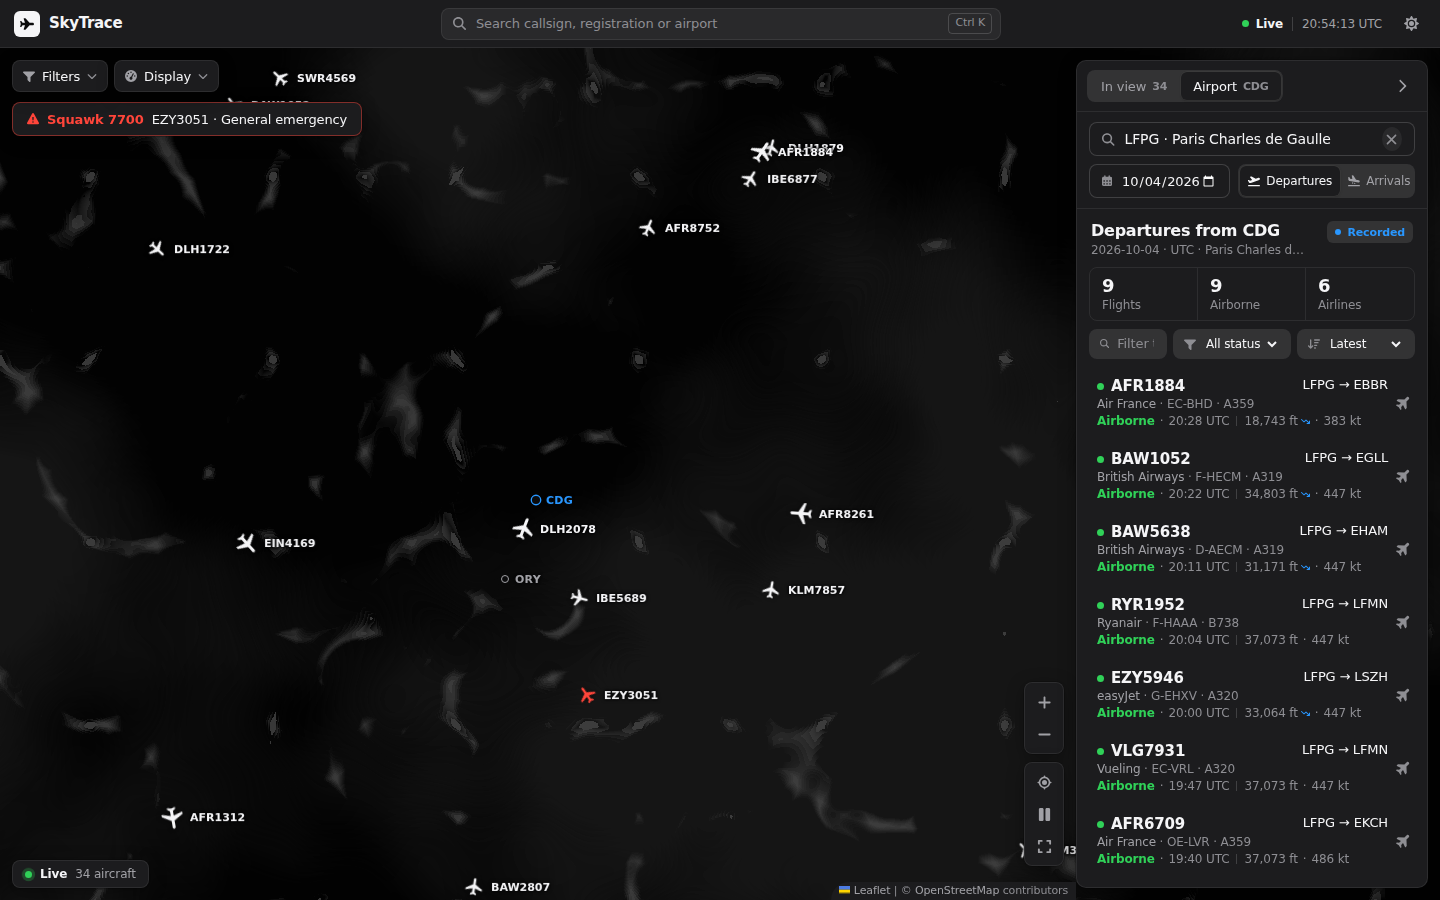
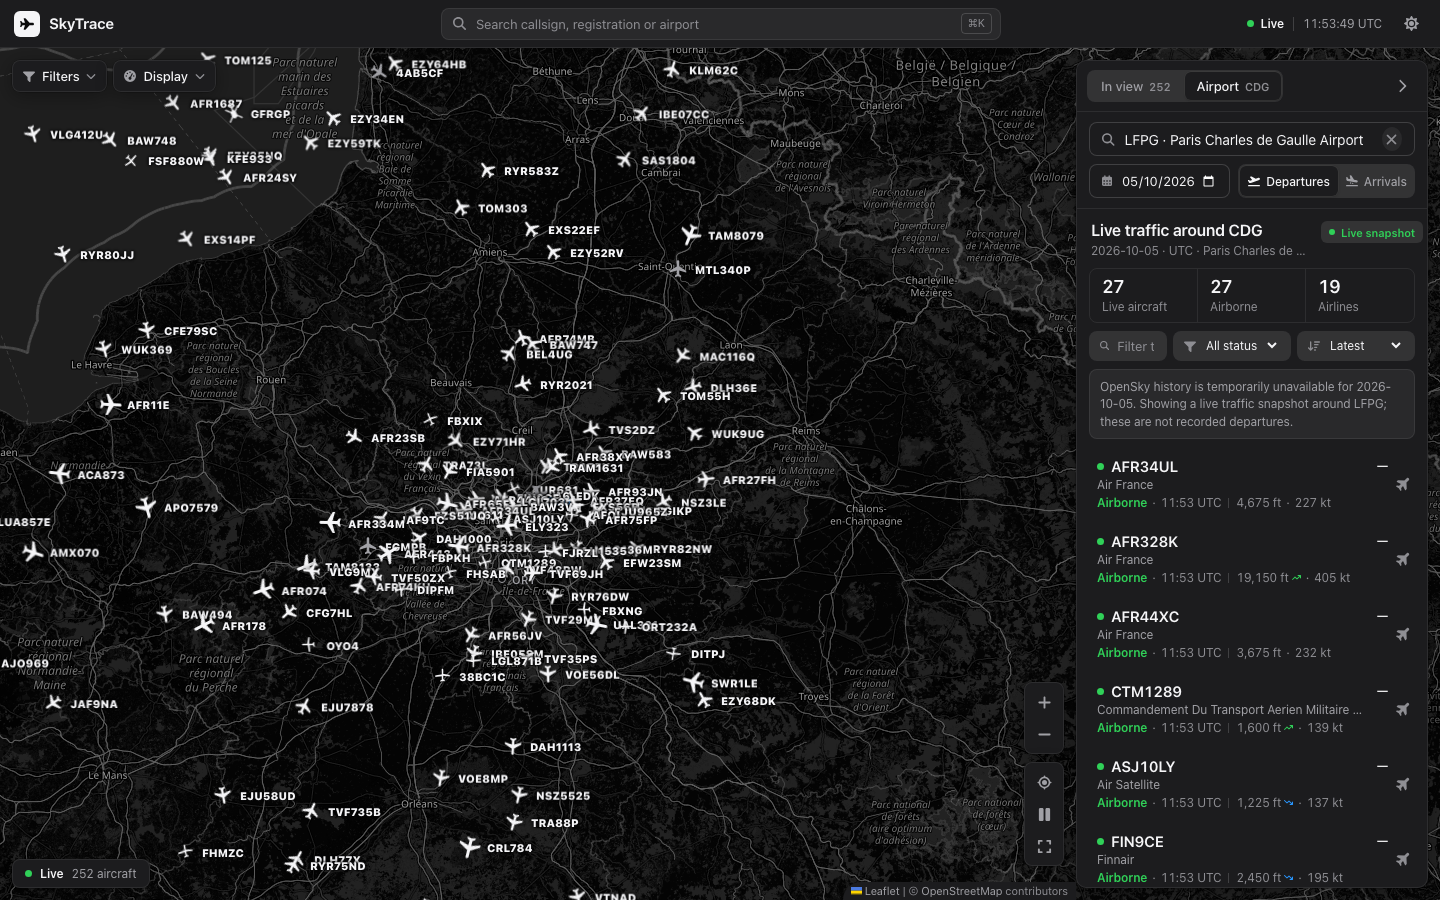
Polish flight map interactions and refresh real screenshots

diff --git a/src/components/FlightMap.tsx b/src/components/FlightMap.tsx
@@ -253,15 +253,19 @@ const AircraftMarker = memo(function AircraftMarker({ aircraft, active, onSelect
     click: selectAircraft,
   }), [selectAircraft]);
 
-  // Glide between feed refreshes: the marker element eases to each projected
-  // position over the one-second tick (see .aircraft-marker-wrap in the CSS).
+  // Only dead-reckoning ticks glide. Leaflet's own camera animations must
+  // position markers immediately or they visibly lag behind their map point.
   useEffect(() => subscribeToTick((now) => {
     const current = aircraftRef.current;
     const marker = markerRef.current;
     if (!marker || current.on_ground) return;
     const next = projectPosition(current, now);
     const shown = marker.getLatLng();
-    if (next && (next[0] !== shown.lat || next[1] !== shown.lng)) marker.setLatLng(next);
+    if (next && (next[0] !== shown.lat || next[1] !== shown.lng)) {
+      const element = marker.getElement();
+      if (!element?.closest(".map-camera-moving")) element?.classList.add("aircraft-gliding");
+      marker.setLatLng(next);
+    }
   }), []);
 
   useLayoutEffect(() => {
@@ -448,7 +452,9 @@ function revealPoint(map: L.Map, point: [number, number], animate: boolean) {
   const pixel = map.latLngToContainerPoint(point);
   const safe = { left: insets.left + 56, top: insets.top + 56, right: size.x - insets.right - 56, bottom: size.y - insets.bottom - 56 };
   const inside = pixel.x >= safe.left && pixel.x <= safe.right && pixel.y >= safe.top && pixel.y <= safe.bottom;
-  const zoom = Math.max(map.getZoom(), 7);
+  // Preserve the visitor's zoom level on selection. A forced zoom made an
+  // ordinary click feel like a second, unrelated camera action.
+  const zoom = map.getZoom();
   if (inside && zoom === map.getZoom()) return;
   const target = placementCenter(map, point, zoom, insets);
   map.stop();
@@ -471,7 +477,7 @@ interface MapControllerProps {
 
 function MapController({ airport, flight, track, fitRequest, locateRequest, onLocationFound, onLocationError }: MapControllerProps) {
   const map = useMap();
-  const selection = useRef<{ id: string; fitted: boolean } | null>(null);
+  const selection = useRef<{ id: string; fitted: boolean; revealed: boolean } | null>(null);
   const centeredAirport = useRef<string | null>(null);
   const lastFitRequest = useRef(fitRequest);
 
@@ -484,10 +490,11 @@ function MapController({ airport, flight, track, fitRequest, locateRequest, onLo
       selection.current = null;
       return;
     }
-    if (selection.current?.id !== selectedId) selection.current = { id: selectedId, fitted: false };
-    if (selectedLatitude == null || selectedLongitude == null) return;
+    if (selection.current?.id !== selectedId) selection.current = { id: selectedId, fitted: false, revealed: false };
+    if (selection.current.revealed || selectedLatitude == null || selectedLongitude == null) return;
+    selection.current.revealed = true;
     revealPoint(map, [selectedLatitude, selectedLongitude], !prefersReducedMotion());
-    // Re-running on a late-arriving position is harmless: revealPoint is a no-op when already visible.
+    // Live position updates must not keep pulling the camera away from the user.
   }, [map, selectedId, selectedLatitude, selectedLongitude]);
 
   // A recorded flight has no position on the map: frame its trace instead.
@@ -513,6 +520,9 @@ function MapController({ airport, flight, track, fitRequest, locateRequest, onLo
     if (!airportIcao || airportLatitude == null || airportLongitude == null || centeredAirport.current === airportIcao) return;
     const first = centeredAirport.current === null;
     centeredAirport.current = airportIcao;
+    // A deep link can resolve its airport after its aircraft. Keep the flight
+    // camera in charge until the visitor explicitly changes airport.
+    if (flight) return;
     const insets = getSafeInsets(map);
     map.stop();
     if (first) {
@@ -521,7 +531,7 @@ function MapController({ airport, flight, track, fitRequest, locateRequest, onLo
     } else {
       map.flyTo(placementCenter(map, [airportLatitude, airportLongitude], 9, insets), 9, { animate: !prefersReducedMotion(), duration: 1.1, easeLinearity: 0.2 });
     }
-  }, [airportIcao, airportLatitude, airportLongitude, map]);
+  }, [airportIcao, airportLatitude, airportLongitude, flight, map]);
 
   useEffect(() => {
     if (!locateRequest) return;
@@ -561,9 +571,16 @@ function MapViewClasses({ labelsEnabled }: { labelsEnabled: boolean }) {
     };
     apply();
     map.on("zoomend", apply);
+    const cameraStart = () => container.classList.add("map-camera-moving");
+    const cameraEnd = () => container.classList.remove("map-camera-moving");
+    map.on("movestart zoomstart", cameraStart);
+    map.on("moveend", cameraEnd);
     return () => {
       map.off("zoomend", apply);
+      map.off("movestart zoomstart", cameraStart);
+      map.off("moveend", cameraEnd);
       container.classList.remove("show-labels", "show-label-detail");
+      container.classList.remove("map-camera-moving");
     };
   }, [labelsEnabled, map]);
   return null;
@@ -678,8 +695,20 @@ function SelectedTrack({ flight, track, live, theme, following, onRelease }: Sel
       followStarted.current = false;
       return;
     }
+    const container = map.getContainer();
+    const stopForManualMapUse = (event: PointerEvent) => {
+      if (event.target instanceof Element && event.target.closest(".aircraft-marker-wrap, .airport-pin-wrap")) return;
+      // Leaflet can ignore dragstart during an animated follow pan. Give the
+      // pointer back to the visitor as soon as they interact with the map.
+      map.stop();
+      onRelease();
+    };
+    container.addEventListener("pointerdown", stopForManualMapUse, true);
     map.on("dragstart", onRelease);
-    return () => { map.off("dragstart", onRelease); };
+    return () => {
+      container.removeEventListener("pointerdown", stopForManualMapUse, true);
+      map.off("dragstart", onRelease);
+    };
   }, [following, map, onRelease]);
   useEffect(() => {
     if (!following || !head) return;
@@ -776,10 +805,13 @@ export function FlightMap({
   const [fitRequest, setFitRequest] = useState(0);
   // Follow keeps the selected aircraft centred as it moves, like FR24's
   // follow mode. It ends when the user drags the map or picks another aircraft.
-  const [following, setFollowing] = useState(false);
-  const releaseFollow = useCallback(() => setFollowing(false), []);
+  const [followingIcao24, setFollowingIcao24] = useState<string | null>(null);
+  const releaseFollow = useCallback(() => setFollowingIcao24(null), []);
   const followedIcao24 = selectedFlight?.icao24;
-  useEffect(() => setFollowing(false), [followedIcao24]);
+  const following = Boolean(followedIcao24 && followingIcao24 === followedIcao24);
+  const toggleFollowing = useCallback(() => {
+    setFollowingIcao24((current) => current === followedIcao24 ? null : followedIcao24 ?? null);
+  }, [followedIcao24]);
   const aircraftCacheRef = useRef(new Map<string, LiveAircraft>());
   const aircraftCacheSeenAtRef = useRef(new Map<string, number>());
   const viewportCacheRef = useRef(new Map<string, ViewportCacheEntry>());
@@ -1038,12 +1070,12 @@ export function FlightMap({
     function handleShortcuts(event: KeyboardEvent) {
       if (event.metaKey || event.ctrlKey || event.altKey || !selectedFlight) return;
       if (event.target instanceof Element && event.target.closest("input, textarea, select, [contenteditable='true']")) return;
-      if (event.key.toLowerCase() === "f") setFollowing((current) => !current);
+      if (event.key.toLowerCase() === "f") toggleFollowing();
       else if (event.key.toLowerCase() === "r" && hasTrace) setFitRequest((value) => value + 1);
     }
     window.addEventListener("keydown", handleShortcuts);
     return () => window.removeEventListener("keydown", handleShortcuts);
-  }, [hasTrace, selectedFlight]);
+  }, [hasTrace, selectedFlight, toggleFollowing]);
 
   return (
     <section className="map-surface" aria-label="Live flight map">
@@ -1130,7 +1162,7 @@ export function FlightMap({
             <button
               type="button"
               className={following ? "follow-active" : ""}
-              onClick={() => setFollowing(!following)}
+              onClick={toggleFollowing}
               aria-pressed={following}
               aria-label={following ? "Stop following aircraft" : "Follow selected aircraft"}
               title={following ? "Stop following (F)" : "Follow aircraft (F)"}

diff --git a/src/styles.css b/src/styles.css
@@ -425,8 +425,8 @@ input { caret-color: var(--accent); }
 .airport-pin.active b { color: var(--accent); }
 
 /* Aircraft markers: one neutral ink; the selection is the only blue. */
-.leaflet-marker-icon.aircraft-marker-wrap { transition: transform 1s linear; }
-.leaflet-zoom-anim .leaflet-marker-icon.aircraft-marker-wrap { transition: transform .25s cubic-bezier(0, 0, .25, 1); }
+.leaflet-marker-icon.aircraft-marker-wrap { transition: none; }
+.leaflet-container:not(.map-camera-moving) .leaflet-marker-icon.aircraft-marker-wrap.aircraft-gliding { transition: transform 1s linear; }
 .aircraft-marker.active { color: #fff; background: var(--accent); box-shadow: 0 0 0 5px var(--accent-soft); filter: none; animation: marker-pop .38s var(--ease-out); }
 @keyframes marker-pop { from { transform: rotate(calc(var(--heading) - 90deg)) scale(.55); box-shadow: 0 0 0 0 var(--accent-soft); } }
 .aircraft-label { position: absolute; left: 31px; top: 50%; display: none; gap: 0; transform: translateY(-50%); color: var(--text); font: 600 11px/1.2 var(--body); white-space: nowrap; letter-spacing: 0; text-shadow: 0 0 2px var(--halo), 0 0 3px var(--halo), 0 0 4px var(--halo); pointer-events: none; }

diff --git a/e2e/flight-tracker.spec.ts b/e2e/flight-tracker.spec.ts
@@ -265,8 +265,11 @@ test("replaces the flight drawer cleanly when another aircraft is selected", asy
   await board.getByRole("button", { name: /AFR123/ }).click();
   const drawer = page.getByRole("complementary", { name: "Selected flight details" });
   await expect(drawer.getByRole("heading", { name: "AFR123" })).toBeVisible();
+  await page.getByRole("button", { name: "Follow selected aircraft" }).click();
+  await expect(page.getByRole("button", { name: "Stop following aircraft" })).toHaveAttribute("aria-pressed", "true");
   await board.getByRole("button", { name: /EZY456/ }).click();
   await expect(drawer).toHaveCount(1);
   await expect(drawer.getByRole("heading", { name: "EZY456" })).toBeVisible();
+  await expect(page.getByRole("button", { name: "Follow selected aircraft" })).toHaveAttribute("aria-pressed", "false");
   await expect(page).toHaveURL(/icao24=39abce/);
 });

diff --git a/README.md b/README.md
@@ -1,71 +1,52 @@
-# SkyTrace — OpenSky Flight Tracking
+# SkyTrace
 
-SkyTrace is a map-first live flight tracker powered by the OpenSky Network API and public ADS-B feeds. It combines live viewport traffic, airport arrival and departure history, aircraft photos, routes, tracks and altitude profiles in a React application, in the spirit of Flightradar24.
+Explore the aircraft above you, follow a flight across the map, or inspect traffic around an airport. SkyTrace combines live positions, recorded airport movements, route details and aircraft profiles in one responsive interface.
 
-Public demo: [opensky-flight-tracking.vercel.app](https://opensky-flight-tracking.vercel.app/)
+[Open the public demo](https://opensky-flight-tracking.vercel.app/) · [Run locally](#run-locally) · [Data and privacy](#data-and-privacy)
 
-## Features
+## What you can do
 
-**Map**
-- Full-bleed live map. Aircraft glide between feed refreshes (dead reckoning along their reported track and speed) instead of jumping on every poll
-- One camera move when an aircraft is selected, never two: no movement when it is already comfortably on screen, a short pan near an edge, one eased flight when it is out of reach. The route is drawn without moving the map again, and a "Show route" button (R) frames it on request
-- Follow mode (F) keeps the selected aircraft in the free part of the map as it flies
-- Solid silhouettes by category (airliner, heavy, light aircraft, helicopter, glider, balloon), callsign and flight-level labels when zoomed in, hover cards, emergency squawks (7500/7600/7700) pulled out in red with a banner
-- Airport markers for known airports; click one to open its departures and arrivals
-- Filters: altitude window, hide ground traffic, airline / type / registration text. Emergencies are never filtered out
-- Aviation (ft, kt) or metric (m, km/h) units, dark and light map, optional browser geolocation
+- **Explore live traffic.** Pan and zoom the map, filter aircraft by altitude or identity, switch units and map theme, and spot emergency squawks. Aircraft with enough position data glide between feed updates.
+- **Inspect a flight.** Select an aircraft for its current altitude, speed, route, profile, photo and available operational details. The map makes one purposeful camera move; use **Follow** to stay with it or **Show full route** to frame its trace.
+- **Search in one place.** Find a visible aircraft by callsign, registration, type or airline, or find an airport by name, city, IATA or ICAO code.
+- **Explore an airport.** Review UTC departures and arrivals, then filter or sort the list. When recorded movements are unavailable, SkyTrace labels the live airport snapshot clearly.
+- **Keep your context.** Share a selected flight by URL. Recent airports, favourites and display preferences stay in your browser.
 
-**Search**
-- One field (⌘K, Ctrl K or `/`) for aircraft on the map by callsign, registration, type or airline, and for airports by city, name, IATA, ICAO, region or country
+The same workflows are available on desktop and phone. Data coverage and enrichment depend on the providers; unknown routes and delayed feeds are labelled in the interface.
 
-**Selected flight**
-- Left dock with a Planespotters photo, big origin and destination codes with a progress bar and time flown / to go, live altitude, speed, vertical rate, track and squawk, then collapsible sections for the airframe, the altitude profile, FlightAware operations and ADS-B signal data
-- Altitude-coloured trace with a hover readout for each profile point
-- Shareable URL, including for a live aircraft that is not tied to an airport
+## Real screenshots
 
-**Airport board**
-- UTC departures and arrivals, loaded as soon as an airport is picked; sortable and filterable; a labelled live snapshot when OpenSky history is unavailable
-- Recent and favourite airports stored in the browser
+These are **browser screenshots of the running site**, captured on 5 October 2026 from the current local frontend connected to the public SkyTrace API. The maps use real OpenStreetMap tiles and the aircraft are live API responses. No traffic, map tiles or photos were generated for these images. Live positions and availability will differ when you open the demo.
 
-Phones get the same features through bottom sheets, but the desktop layout is the primary one.
+### Live map
 
-## Keyboard
-
-| Key | Action |
-| --- | --- |
-| `⌘K` / `Ctrl K` / `/` | Focus the search |
-| `↑` `↓` `Enter` | Move through and pick a search result; arrows also move through the flight board |
-| `F` | Follow or stop following the selected aircraft |
-| `R` | Frame the selected aircraft's full route |
-| `Esc` | Close search, popover, full map or the selected flight |
-
-## Screenshots
-
-These captures were generated locally against a synthetic backend (deterministic traffic, a procedural base map and a placeholder aircraft photo), because the capture environment had no internet access. They show the layout and behaviour, not real traffic. They contain no credentials or private account data.
-
-### Overview
-
-![SkyTrace overview](docs/screenshots/skytrace-desktop-overview.png)
+![SkyTrace live aircraft map and traffic list](docs/screenshots/skytrace-desktop-overview.png)
 
 ### Selected flight
 
-![SkyTrace selected flight](docs/screenshots/skytrace-desktop-selected-flight.png)
+![A selected aircraft, its live map position and flight detail panel](docs/screenshots/skytrace-desktop-selected-flight.png)
 
-### Search
+### Search and airport board
 
-![SkyTrace search](docs/screenshots/skytrace-desktop-search.png)
+![Unified aircraft and airport search](docs/screenshots/skytrace-desktop-search.png)
 
-### Airport board
+![Paris CDG airport board with a clearly labelled live fallback](docs/screenshots/skytrace-desktop-airport-board.png)
 
-![SkyTrace airport board](docs/screenshots/skytrace-desktop-airport-board.png)
+### Light theme and phone
 
-### Light map
+![SkyTrace light map with live aircraft](docs/screenshots/skytrace-desktop-light.png)
 
-![SkyTrace light map](docs/screenshots/skytrace-desktop-light.png)
+![Selected aircraft on a phone](docs/screenshots/skytrace-mobile-selected.png)
 
-### Phone
+## Keyboard shortcuts
 
-![SkyTrace on a phone](docs/screenshots/skytrace-mobile-selected.png)
+| Key | Action |
+| --- | --- |
+| `⌘K`, `Ctrl K` or `/` | Focus search |
+| `↑`, `↓`, `Enter` | Navigate and select search or flight results |
+| `F` | Toggle following the selected aircraft |
+| `R` | Frame the selected route |
+| `Esc` | Close the active search, menu, full map or flight detail |
 
 ## Architecture
 
@@ -76,7 +57,7 @@ These captures were generated locally against a synthetic backend (deterministic
 
 The Python server owns all OpenSky authentication. Credentials are never sent to the browser.
 
-## Local setup
+## Run locally
 
 Requirements:
 
